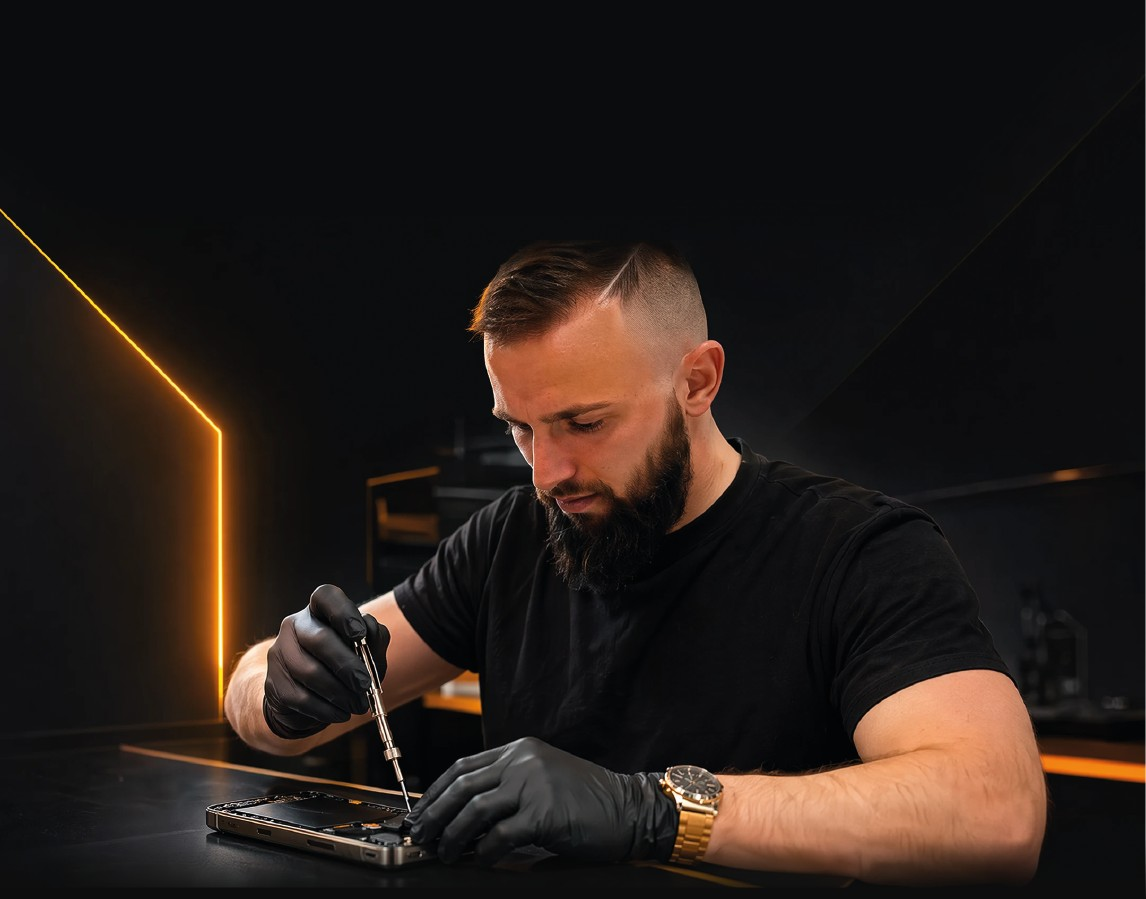
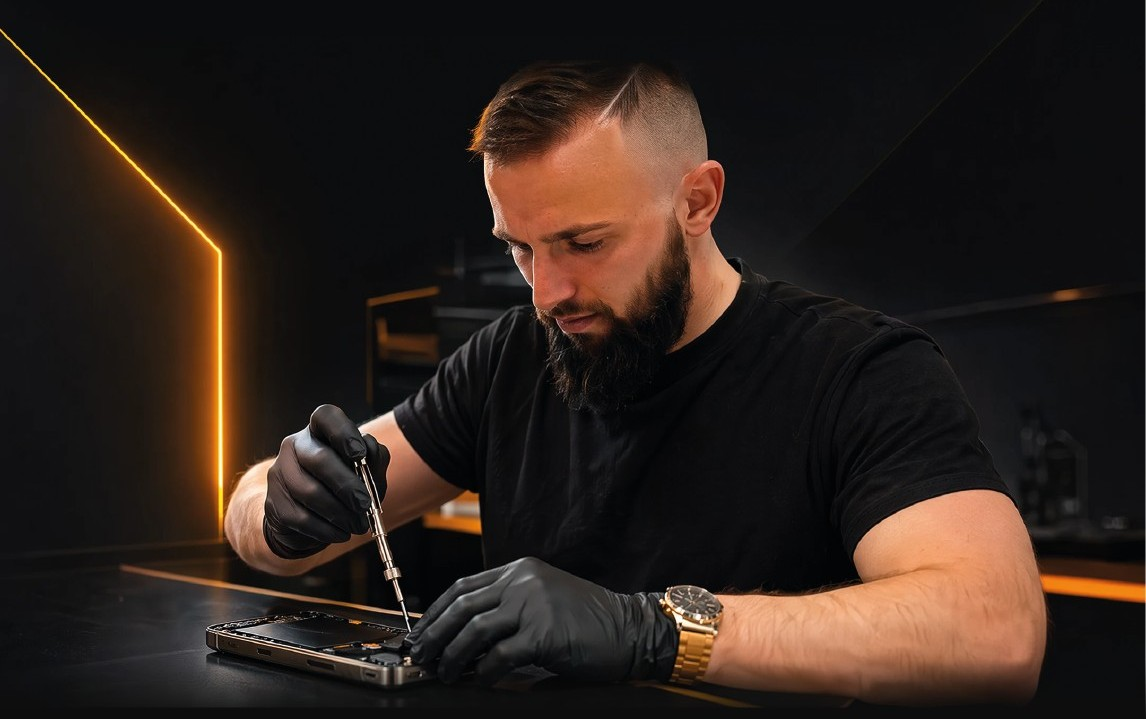
Add files via upload

diff --git a/index.html b/index.html
@@ -55,9 +55,9 @@
     color: #fff;
     box-shadow: var(--rp-shadow);
   }
-  .hero-top { text-align: center; padding: 26px 20px 0; }
+  .hero-top { text-align: center; padding: 18px 20px 0; }
   .hero-logo-img { display: block; width: 250px; max-width: 66%; margin: 0 auto; }
-  .hero-photo { margin-top: 8px; background: #0e0e0e; }
+  .hero-photo { margin-top: 6px; background: #0e0e0e; }
   .hero-photo img { width: 100%; display: block; }
   .hero-badges { display: flex; flex-wrap: wrap; gap: 8px; justify-content: center; padding: 22px 20px 0; }
   .hero-badges span {
